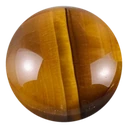
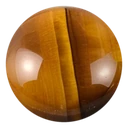
Granite: carved-stone board v2, stones sit inside the cups with baked contact shadows
- new board render (realism pass at denoise 0.25, geometry verified), relit stones, piece_shadow image
- stones slightly smaller than the cups so the carved rim shows
- prototype screenshots, detail crop and with/without comparison in docs/themes

diff --git a/src/ui/assets.ts b/src/ui/assets.ts
@@ -12,6 +12,7 @@ export interface LoadedAssets {
   pieces: [string | undefined, string | undefined];
   /** Ultra: several images per side; pieces choose one deterministically. */
   pieceVariants: [string[], string[]];
+  pieceShadow?: string;
 }
 
 export const NO_ASSETS: LoadedAssets = { pieces: [undefined, undefined], pieceVariants: [[], []] };
@@ -37,6 +38,7 @@ export function wantedPaths(assets: ThemeAssets | undefined, level: QualityLevel
     pieces: [pickAssetPath(assets?.pieces?.[0], level), pickAssetPath(assets?.pieces?.[1], level)] as [string | undefined, string | undefined],
     boardTile: assets?.boardTile,
     boardIncludesLines: assets?.boardIncludesLines,
+    pieceShadow: level === 'high' || level === 'ultra' ? assets?.pieceShadow : undefined,
     pieceVariants: [
       level === 'ultra' ? (assets?.pieces?.[0]?.ultraVariants ?? []) : [],
       level === 'ultra' ? (assets?.pieces?.[1]?.ultraVariants ?? []) : [],
@@ -88,6 +90,7 @@ export async function loadAssets(theme: Theme, level: QualityLevel, probe: Probe
     }
   };
   const [board, background, p0, p1] = await Promise.all([check(want.board), check(want.background), check(want.pieces[0]), check(want.pieces[1])]);
+  const pieceShadow = await check(want.pieceShadow);
   const variants = await Promise.all(
     want.pieceVariants.map(async (list) => (await Promise.all(list.map((x) => check(x)))).filter((u): u is string => !!u)),
   );
@@ -100,5 +103,6 @@ export async function loadAssets(theme: Theme, level: QualityLevel, probe: Probe
     // With variants available, the single-image slot (HUD icons, fallbacks) uses the first variant.
     pieces: [p0 ?? pieceVariants[0][0], p1 ?? pieceVariants[1][0]],
     pieceVariants,
+    pieceShadow: pieceShadow && (p0 || p1 || pieceVariants[0].length || pieceVariants[1].length) ? pieceShadow : undefined,
   };
 }

diff --git a/src/ui/boardView.ts b/src/ui/boardView.ts
@@ -203,8 +203,11 @@ export class BoardView {
     const variants = this.render.assets.pieceVariants?.[player] ?? [];
     const raster = variants.length > 0 ? variants[this.variantIndex(player, point, animateIn, variants.length)] : this.render.assets.pieces[player];
     if (raster) {
-      const half = PIECE_R * (this.render.assets.boardIncludesLines ? 1.1 : 1.22);
-      if (this.render.level === 'ultra') {
+      // Carved boards: the stone sits a little inside its cup so the carved rim shows around it.
+      const half = PIECE_R * (this.render.assets.boardIncludesLines ? 0.97 : 1.22);
+      if (this.render.assets.pieceShadow) {
+        body.append(svgEl('image', { href: this.render.assets.pieceShadow, x: -half, y: -half, width: half * 2, height: half * 2 }));
+      } else if (this.render.level === 'ultra') {
         body.append(svgEl('ellipse', { cx: 1.5, cy: PIECE_R * 0.45, rx: PIECE_R * 0.95, ry: PIECE_R * 0.5, fill: '#000', opacity: 0.4, filter: 'url(#q-shadow)' }));
       }
       body.append(svgEl('image', { href: raster, x: -half, y: -half, width: half * 2, height: half * 2 }));

diff --git a/tests/quality.test.ts b/tests/quality.test.ts
@@ -110,7 +110,7 @@ describe('asset manifest', () => {
     for (const t of THEMES) {
       for (const lvl of ['high', 'ultra'] as const) {
         const w = wantedPaths(t.assets, lvl);
-        for (const p of [w.board, w.background, ...w.pieces, ...w.pieceVariants[0], ...w.pieceVariants[1]]) if (p) expect(existsSync(join('public', p)), `${t.id} ${p}`).toBe(true);
+        for (const p of [w.board, w.background, w.pieceShadow, ...w.pieces, ...w.pieceVariants[0], ...w.pieceVariants[1]]) if (p) expect(existsSync(join('public', p)), `${t.id} ${p}`).toBe(true);
       }
     }
   });

diff --git a/src/ui/themes/granite.ts b/src/ui/themes/granite.ts
@@ -41,6 +41,7 @@ export const granite: Theme = {
   assets: {
     board: { high: 'assets/granite/board.high.webp', ultra: 'assets/granite/board.ultra.webp' },
     boardIncludesLines: true,
+    pieceShadow: 'assets/granite/piece_shadow.webp',
     background: { high: 'assets/granite/table.high.webp', ultra: 'assets/granite/table.ultra.webp' },
     pieces: [
       {

diff --git a/src/ui/themes/theme.ts b/src/ui/themes/theme.ts
@@ -52,6 +52,8 @@ export interface ThemeAssets {
   background?: ImageSet;
   /** Piece images with transparency, [player 1, player 2]. */
   pieces?: [ImageSet | undefined, ImageSet | undefined];
+  /** Baked soft contact shadow drawn under each piece image (same box as the stone image). */
+  pieceShadow?: string;
 }
 
 export interface StrokeLayer {
